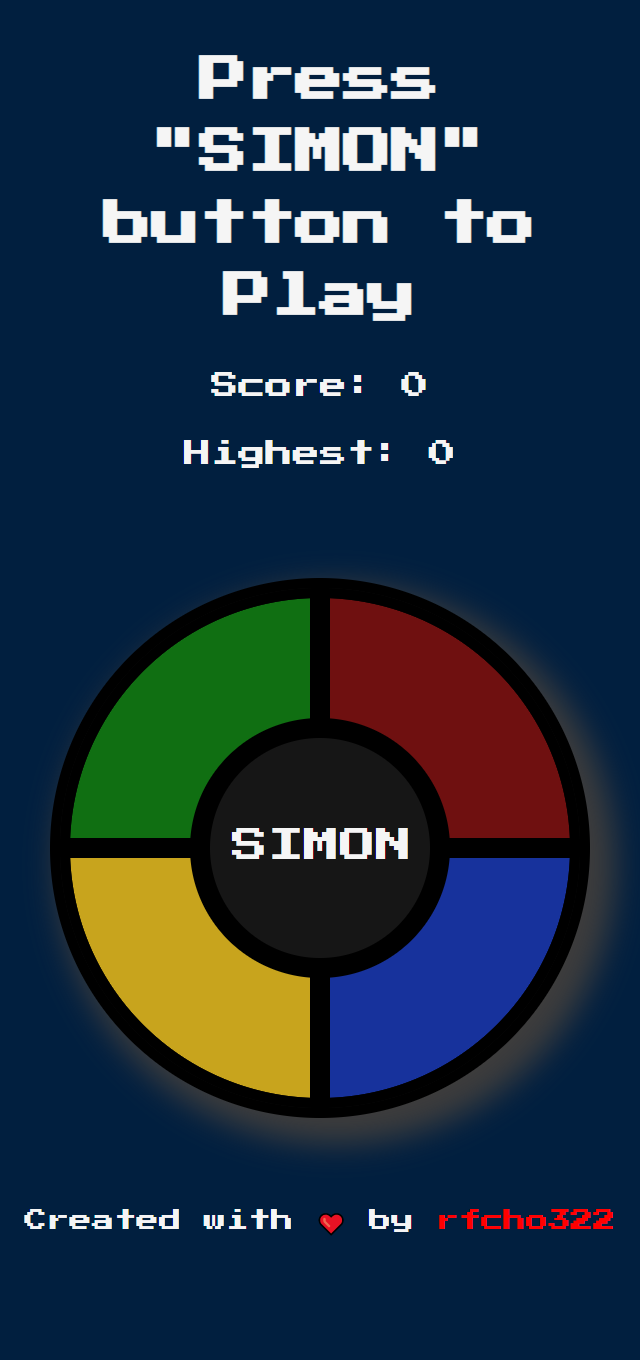
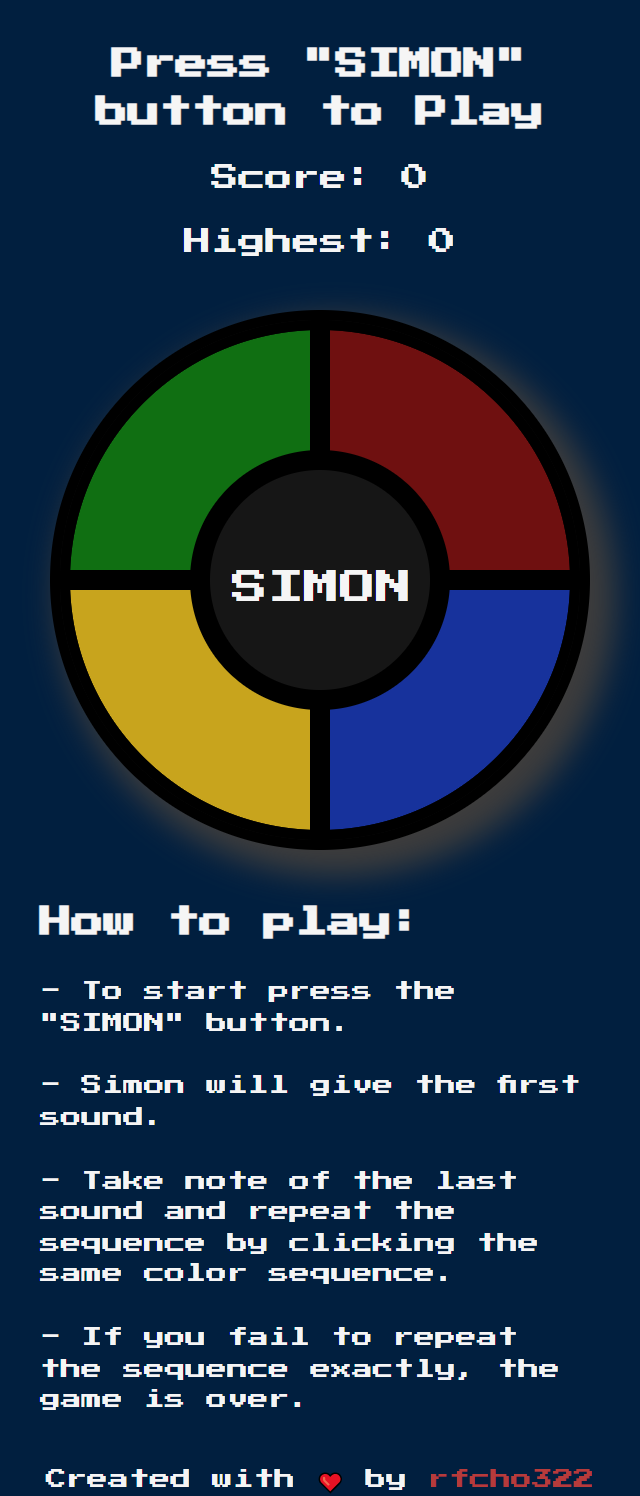
Updated Screenshots

diff --git a/index.html b/index.html
@@ -19,10 +19,10 @@
     </div>
     <div class="sub-header">
       <h2 class="header__title">How to play:</h2>
-      <p class="description">To start press the "SIMON" button</p>
-      <p class="description">Simon will give the first sound</p>
-      <p class="description">Take note of the last sound and repeat the sequence by clicking the same color sequence.</p>
-      <p class="description">If you fail to repeat the sequence exactly, the game is over</p>
+      <p class="description">- To start press the "SIMON" button.</p>
+      <p class="description">- Simon will give the first sound.</p>
+      <p class="description">- Take note of the last sound and repeat the sequence by clicking the same color sequence.</p>
+      <p class="description">- If you fail to repeat the sequence exactly, the game is over.</p>
     </div>
     <div class="row">
       <div class="container__circle">

diff --git a/styles.css b/styles.css
@@ -35,7 +35,6 @@ p, h1, h2 {
 
 .sub-header {
     margin: auto;
-    text-align: center;
 }
 
 .sub-header > h2{
